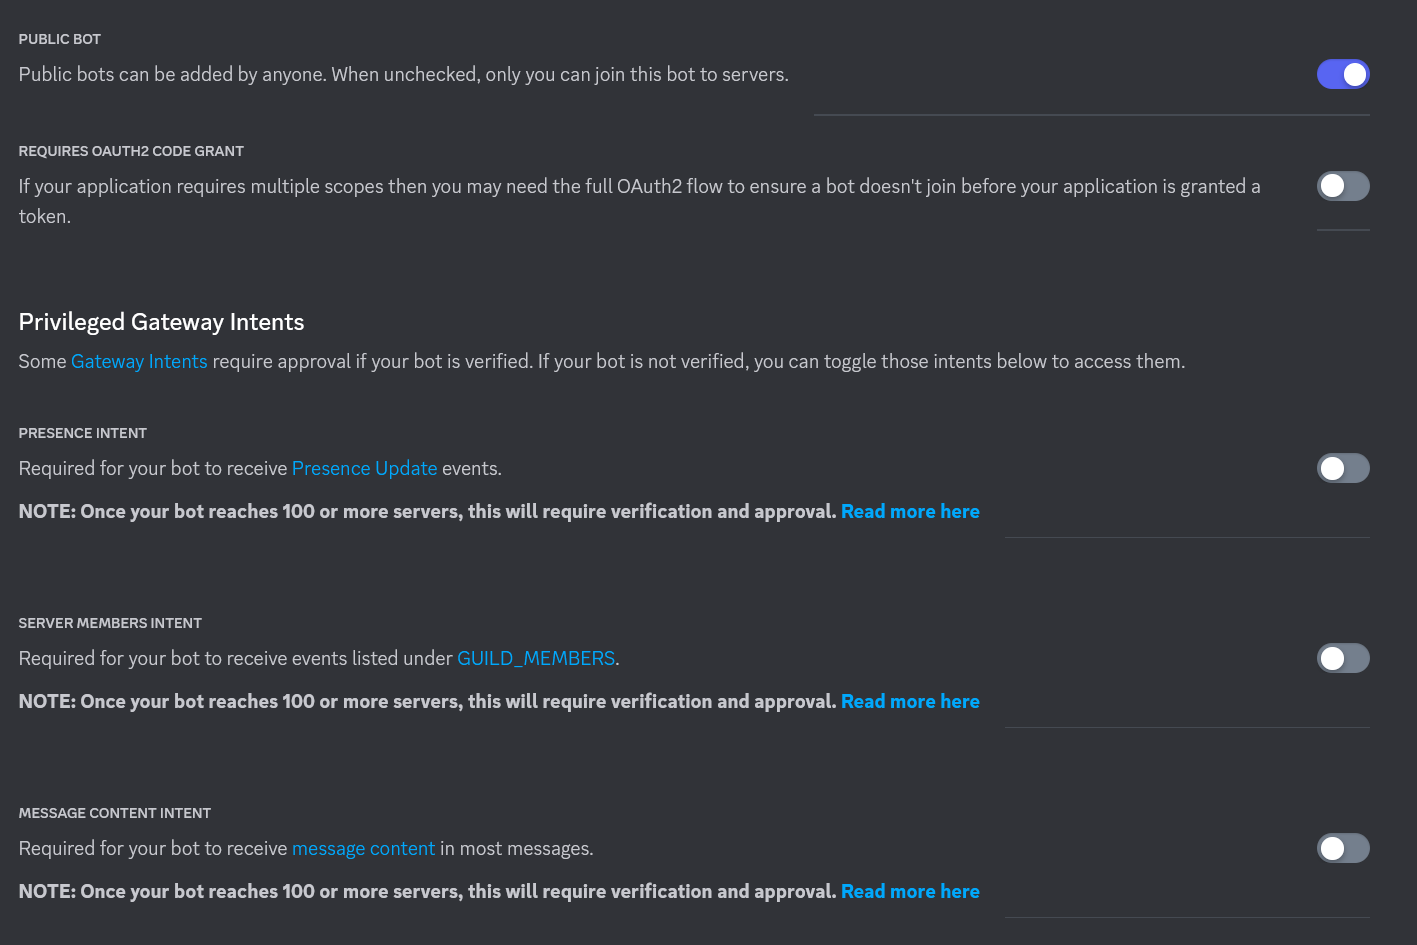
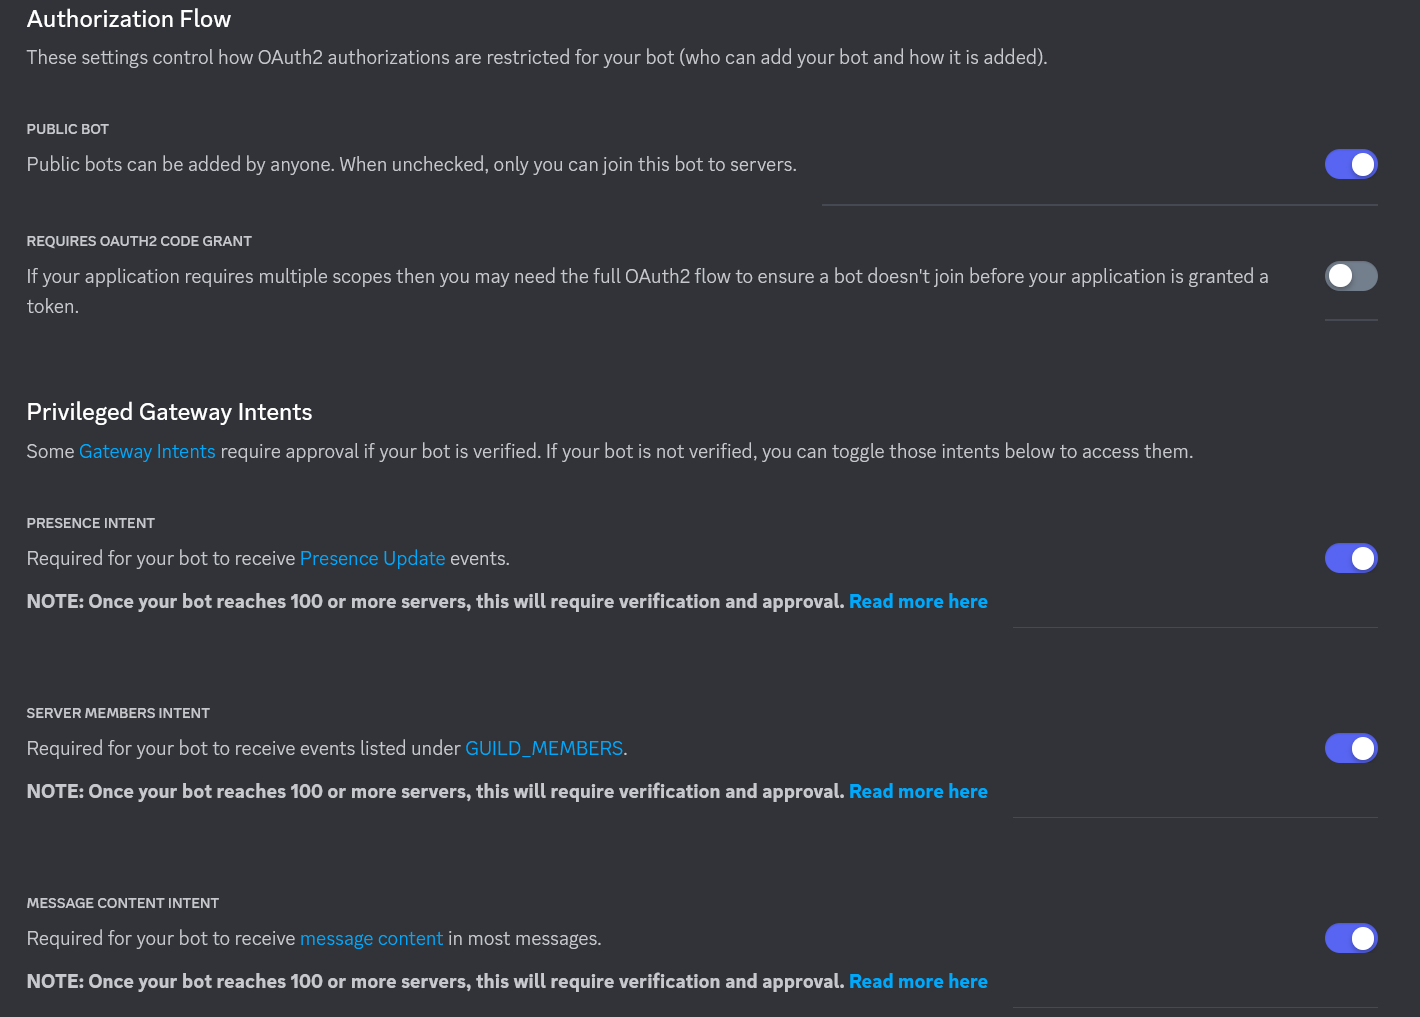
readme

diff --git a/README.md b/README.md
@@ -80,7 +80,7 @@ ChatGPT(私訊的)： 知道，你是豆皮。
 	![](./screenshoot/Discord_6.png) 
 	步驟 7. 完成後點擊 View Token，然後按 Copy
 	![](./screenshoot/Discord_7.png) 
-	步驟 8. 往下滑把全部開關打開，第一個開關自己斟酌。
+	步驟 8. 往下滑除了 `Requires OAuth2 Code Grant` 以外，全部都把開關打開，第一個開關自己斟酌，如下圖。
 	![](./screenshoot/Discord_8.png) 
 	步驟 9. 把機器人加入自己的伺服器，點擊左側 OAuth2 ，點 URL Generator。
 	勾起 `bot` ，下面的 `Administrator` 自己決定要不要給管理權限。
